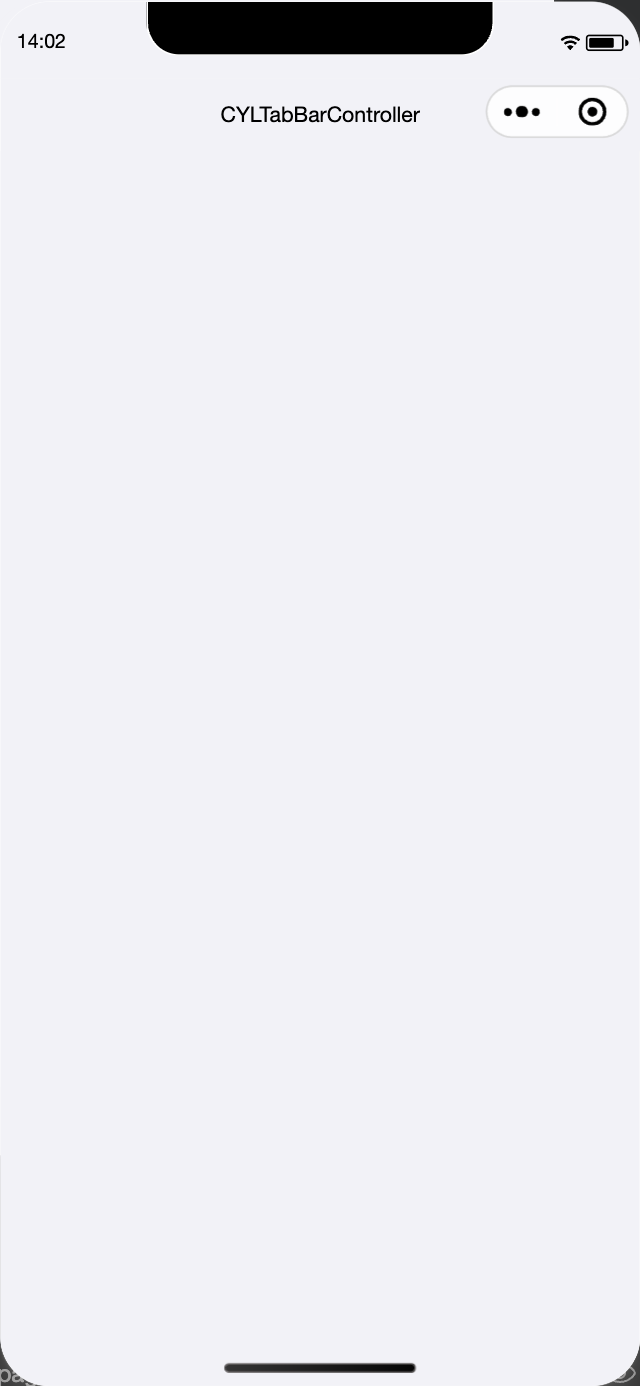
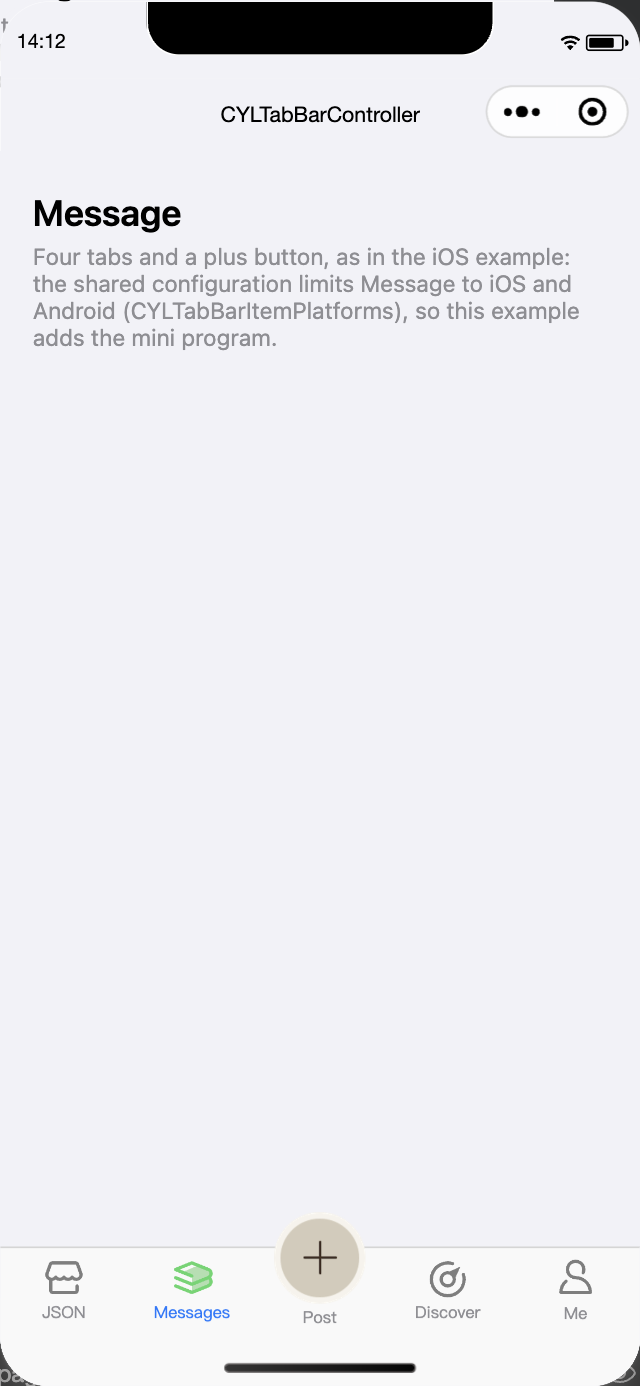
feat: ✨ one optional package per mini program animation library
cyl-tabbar-miniprogram depends on no animation library: cyl-tab-bar
and cyl-tab-bar-item take cyl-lottie-view, cyl-pag-view and
cyl-rive-view as abstract nodes (default: an empty placeholder). Four
packages: Lottie, PAG, Rive and the new cyl-gif-miniprogram (GIF plays
in <image>; it holds the icons), each listing its sample icons.

The example installs one (npm run setup -- --animation=pag, Lottie by
default) and copies only its icons. Measured code package: Lottie
0.45 MB, PAG 1.20 MB, Rive 0.85 MB, GIF 0.33 MB, against 2.25 MB.
Checked in WeChat DevTools (screenshots 21-24); npm test 15 / 15.

Most of the code was committed earlier as work in progress by the
vault sync and another session (b66d6f5, 5d26000, 7ed180b, 5e4e954).
TODO in docs/WeChat-Mini-Program.md: real device, Rive default skin.

By  @ChenYilong <luohanchenyilong@163.com>

diff --git a/docs/WeChat-Mini-Program.md b/docs/WeChat-Mini-Program.md
@@ -99,9 +99,9 @@
 
 | 中文 | English |
 |:---|:---|
-| 见右列。 | **Packages** (relative-path dependencies, no registry): `CrossPlatform/wechat-miniprogram-cyltabbar` is the package **`cyl-tabbar-miniprogram`** (`src/cyl-tab-bar`), which depends on **`cyl-lottie-miniprogram`** (`CrossPlatform/lottie-miniprogram`, the `cyl-lottie` component and the lottie library) through `"cyl-lottie-miniprogram": "file:../lottie-miniprogram"`, plus **`cyl-pag-miniprogram`** (`../pag-miniprogram`) and **`cyl-rive-miniprogram`** (`../rive-miniprogram`). A mini program code package leaves out `.pag` and `.riv` files, so the example's copies are named `*.pag.bin` and `icons.riv.bin`; it cannot read files under `miniprogram_npm` either, so the installer also copies Rive's WebAssembly (`cylMiniprogramAssets` in the package's `package.json`) to `miniprogram/cyl-rive-miniprogram/rive.wasm.br`, `cyl-rive`'s default `wasmPath`. Its example, `wechat-miniprogram-cyltabbar/example`, depends only on `"cyl-tabbar-miniprogram": "file:.."`. |
-| | **Run the example**: `cd CrossPlatform/wechat-miniprogram-cyltabbar/example && npm run setup` (Node only, no network: `scripts/cyl_install_components.js` copies every `file:` dependency and its own `file:` dependencies into `miniprogram/miniprogram_npm`, the layout of DevTools' "Build npm", so `cyl-lottie-miniprogram` comes in as the sub-dependency of `cyl-tabbar-miniprogram`; then `scripts/cyl_sync_shared.js` copies the shared configuration, localization tables, skin images and Lottie icons into `miniprogram/shared`). Import `example/` in WeChat DevTools (`project.config.json`, AppID `wx5e29c9d33906f074`) and compile. npm itself is not used because it links `file:` dependencies with symbolic links, which an exFAT drive cannot hold, and `--install-links` resolves nested relative paths from the wrong folder. On macOS, allow DevTools to access files on a removable volume when the repository is on an external drive. `npm run check` fails when `miniprogram_npm` or `shared` is out of date. |
-| | **Use the component**: `"tabBar": {"custom": true, "list": […]}` in `app.json`; in `custom-tab-bar/index.json`, `"cyl-tab-bar": "cyl-tabbar-miniprogram/cyl-tab-bar/index"`; in its WXML, `<cyl-tab-bar configuration="{{configuration}}" selected-identifier="{{selected}}" animation-base-path="/shared/lottie" bind:select="onSelect" />`, and `wx.switchTab` in `onSelect`. Every tab page has its own `custom-tab-bar` instance, so the example keeps badges, skin and overrides in `App`, each instance follows them, and the page that appears calls `cyl_playLottie()`. Full API: [cyl-tabbar-miniprogram API](#encyl-tabbar-miniprogram-api). |
+| 见右列。 | **Packages** (relative-path dependencies, no registry): `CrossPlatform/wechat-miniprogram-cyltabbar` is the package **`cyl-tabbar-miniprogram`** (`src/cyl-tab-bar`, `src/cyl-tab-bar-item`, `src/cyl-animation-placeholder`) and **depends on no animation library**. Animated tab icons come from four optional packages, one per library, so the 2 MB main code package holds only the runtime an app uses: **`cyl-lottie-miniprogram`** (`CrossPlatform/lottie-miniprogram`, `cyl-lottie`), **`cyl-pag-miniprogram`** (`../pag-miniprogram`, `cyl-pag`, full libpag), **`cyl-rive-miniprogram`** (`../rive-miniprogram`, `cyl-rive`) and **`cyl-gif-miniprogram`** (`../gif-miniprogram`: no component, GIF plays in `<image>`; it holds the GIF icons). `cyl-tab-bar` and `cyl-tab-bar-item` take the components through abstract nodes (`componentGenerics`: `cyl-lottie-view`, `cyl-pag-view`, `cyl-rive-view`, defaulting to `cyl-animation-placeholder`, an empty view that emits `error`); `cyl-tab-bar` forwards them to every item. Each animation package lists its sample icons in `cylExampleResources` of its `package.json` (folder, source folder in this repository, files) and its WebAssembly in `cylMiniprogramAssets`. A mini program code package leaves out `.pag` and `.riv` files, so the copies end in `.bin`; it cannot read files under `miniprogram_npm`, so the installer copies each WebAssembly to `miniprogram/<package>/` (`/cyl-rive-miniprogram/rive.wasm.br`, `/cyl-pag-miniprogram/libpag.wasm.br`) and leaves it out of `miniprogram_npm`. |
+| | **Run the example**: `cd CrossPlatform/wechat-miniprogram-cyltabbar/example && npm run setup` (Node only, no network) installs `cyl-tabbar-miniprogram` and **one** animation package, Lottie by default (`cylExampleAnimation` in its `package.json`); choose another with `npm run setup -- --animation=pag` (`lottie`, `pag`, `rive`, `gif`, remembered in `.cyl-animation`). `scripts/cyl_install_components.js` copies the packages into `miniprogram/miniprogram_npm` (the layout of DevTools' "Build npm"), removes the others, and points the animation tags of `custom-tab-bar/index.json` and `pages/lottie/index.json` at the chosen component (the placeholder for the rest); `scripts/cyl_sync_shared.js` copies the shared configuration, localization tables, skin images and the chosen package's icons into `miniprogram/shared` (the animation folders and `animations.js` are generated, not committed). The Me page lists the installed animation and Images. Measured code package (all files): Lottie 0.45 MB, PAG 1.20 MB, Rive 0.85 MB, GIF 0.33 MB (2.25 MB with Lottie, PAG and Rive together). Import `example/` in WeChat DevTools (`project.config.json`, AppID `wx5e29c9d33906f074`) and compile. npm itself is not used because it links `file:` dependencies with symbolic links, which an exFAT drive cannot hold. On macOS, allow DevTools to access files on a removable volume when the repository is on an external drive. `npm run check` fails when `miniprogram_npm`, the page files or `shared` are out of date. |
+| | **Use the component**: `"tabBar": {"custom": true, "list": […]}` in `app.json`; in `custom-tab-bar/index.json`, `"cyl-tab-bar": "cyl-tabbar-miniprogram/cyl-tab-bar/index"` plus the animation component you installed (e.g. `"cyl-lottie": "cyl-lottie-miniprogram/cyl-lottie/index"`); in its WXML, `<cyl-tab-bar generic:cyl-lottie-view="cyl-lottie" configuration="{{configuration}}" selected-identifier="{{selected}}" animation-base-path="/shared/lottie" bind:select="onSelect" />`, and `wx.switchTab` in `onSelect`. Every tab page has its own `custom-tab-bar` instance, so the example keeps badges, skin and overrides in `App`, each instance follows them, and the page that appears calls `cyl_playLottie()`. Full API: [cyl-tabbar-miniprogram API](#encyl-tabbar-miniprogram-api). |
 | | **Drive it in DevTools**: `source CrossPlatform/wechat-miniprogram-cyltabbar/example/scripts/cyl_devtools.sh` (outside a sandbox; DevTools' service port on, `wechatide` authorized for client "Claude"), then `cyl_refresh`, `cyl_state "{overrides:{cylDemoIcons:'rive'}}"`, `cyl_tap discover`, `cyl_shot <name>` (to `docs/assets`), `cyl_playback <tab>` (taps the tab and prints the selected icon's frames, or the Rive `active` input, every 100 ms). |
 | | **Tests**: `cd CrossPlatform/wechat-miniprogram-cyltabbar && npm test` (configuration reader and `cyl-tab-bar-item`, 15 / 15); `cd CrossPlatform/rive-miniprogram && npm install && npm run build && npm test` (Rive options, 3 / 3); `cd CrossPlatform/lottie-miniprogram && npm install && npm run build && npm test` (lottie library and `cyl-lottie` colors, 12 / 12). |
 
@@ -110,7 +110,7 @@
 
 | 中文 | English |
 |:---|:---|
-| 见右列。 | Score of the component API: every property, event and method of `cyl-tab-bar` (package `cyl-tabbar-miniprogram`) and of its sub-dependency `cyl-lottie` (package `cyl-lottie-miniprogram`), checked in the example in WeChat DevTools (screenshot number below, or a check made through the agent skill `wechatide`'s `automation_evaluate` and its result) or in the Node tests. Score = 100 × verified / total: **100 / 100** (42 of 42). |
+| 见右列。 | Score of the component API: every property, event and method of `cyl-tab-bar` (package `cyl-tabbar-miniprogram`) and of its sub-dependency `cyl-lottie` (package `cyl-lottie-miniprogram`), checked in the example in WeChat DevTools (screenshot number below, or a check made through the agent skill `wechatide`'s `automation_evaluate` and its result) or in the Node tests. Score = 100 × verified / total: **100 / 100** (43 of 43). |
 
 | API | 类型 / Kind | 验证 / Verified |
 |:---|:---|:---|
@@ -137,6 +137,7 @@
 | `cyl_swipe_behavior.js` | behavior | ✅ 07（`cyl_onSwipeStart` / `cyl_onSwipeEnd`） |
 | 无障碍 / accessibility | `aria-*` | ✅ evaluate：`tablist`；每个 Tab 为 `tab`，标签含角标 / each tab a `tab`, label with its badge（"Discover, 3"），`aria-selected`；PlusButton 为 / is a `button` |
 | 点击动画 / tap animation | `CYLTabBarControllerTabButtonTapAnimation` | ✅ evaluate：`bounce`，400 ms |
+| `cyl-lottie-view`、`cyl-pag-view`、`cyl-rive-view` | 抽象节点 / abstract nodes | ✅ evaluate：每个 Tab 的动画组件为所传组件 / each tab's animation component is the one passed（cyl-lottie / cyl-pag / cyl-rive，21–23）；未传时为 `cyl-animation-placeholder` / the placeholder when none is passed |
 | `cyl-lottie` `path` | 属性 / property | ✅ 包内文件 / package file（01、11），用户数据目录 / user data folder（13） |
 | `cyl-lottie` `animationData` | 属性 / property | ✅ 测试 / test |
 | `cyl-lottie` `loop` | 属性 / property | ✅ 11（`loopcomplete`） |
@@ -155,7 +156,7 @@
 | `cyl-lottie` `cyl_playSegments` | 方法 / method | ✅ 透传 / passes through to lottie-web `playSegments` |
 | `cyl-lottie` `cyl_setSpeed` | 方法 / method | ✅ 12 |
 | `cyl-lottie` `cyl_animation` | 方法 / method | ✅ evaluate（读取 / read `currentFrame`、`totalFrames`） |
-| 依赖 / dependency | `cyl-tabbar-miniprogram` → `cyl-lottie-miniprogram` | ✅ `cyl_install_components.js` 只依赖前者也会安装后者 / installs the second from the first alone |
+| 依赖 / dependency | 动画包可选 / animation packages optional | ✅ `cyl-tabbar-miniprogram` 不依赖动画库；示例只安装所选的一个 / depends on no animation library; the example installs the chosen one only（21–24） |
 
 ## [CN]cyl-tab-bar-item 与 CYLFlatDesignTabBarItem
 ## [EN]cyl-tab-bar-item and CYLFlatDesignTabBarItem
@@ -356,6 +357,34 @@
 
 </details>
 
+<details>
+<summary>21. 只安装 Lottie 包（默认），选中 Messages / Only the Lottie package installed (the default), Messages selected. WeChat Mini Program, WeChat DevTools simulator (iPhone, macOS 27.3), base library 3.17.6, branch feat/cross-platform-components after d52b146, 2026-11-13 14:0x (UTC+13)</summary>
+
+![Only the Lottie package installed (the default), Messages selected](assets/wechat-miniprogram-api-21-split-lottie.png)
+
+</details>
+
+<details>
+<summary>22. 只安装 PAG 包，选中 Messages / Only the PAG package installed, Messages selected. WeChat Mini Program, WeChat DevTools simulator (iPhone, macOS 27.3), base library 3.17.6, branch feat/cross-platform-components after d52b146, 2026-11-13 14:0x (UTC+13)</summary>
+
+![Only the PAG package installed, Messages selected](assets/wechat-miniprogram-api-22-split-pag.png)
+
+</details>
+
+<details>
+<summary>23. 只安装 Rive 包：Me 页面只列出 Rive 与 Images / Only the Rive package installed: the Me page lists Rive and Images only. WeChat Mini Program, WeChat DevTools simulator (iPhone, macOS 27.3), base library 3.17.6, branch feat/cross-platform-components after d52b146, 2026-11-13 14:0x (UTC+13)</summary>
+
+![Only the Rive package installed: the Me page lists Rive and Images only](assets/wechat-miniprogram-api-23-split-rive-me.png)
+
+</details>
+
+<details>
+<summary>24. 只安装 GIF 包：选中的 Messages 显示星星 GIF，Discover 作为普通图片循环播放火焰 GIF / Only the GIF package installed: the selected Messages shows the star GIF, Discover loops the fire GIF as a plain image. WeChat Mini Program, WeChat DevTools simulator (iPhone, macOS 27.3), base library 3.17.6, branch feat/cross-platform-components after d52b146, 2026-11-13 14:0x (UTC+13)</summary>
+
+![Only the GIF package installed: the selected Messages shows the star GIF, Discover loops the fire GIF as a plain image](assets/wechat-miniprogram-api-24-split-gif.png)
+
+</details>
+
 ## [CN]截图（63 / 100 时）
 ## [EN]Screenshots (at 63 / 100)
 
@@ -470,4 +499,4 @@
 | 见右列。 | DONE (2026-11-13, see the next entry). Original entry: TODO (bug, 2026-11-13): **PAG tab icons do not show** when Me → Tab icons → PAG is chosen. Checked commit [`81dd8d4`](https://github.com/ChenYilong/CYLTabBarController/commit/81dd8d4): it ships the player (`cyl-pag`, libpag-lite 0.0.6) and the example's PAG mode, but **no PAG file**: the repository does not distribute PAG files, `miniprogram/shared/pag/` is in `.gitignore`, and `scripts/cyl_sync_shared.js` copies `pag-android/2J.pag` only after `python3 scripts/fetch-animation-resources.py PAGResources` (a fresh clone shows the toast "Run the PAG download first"). With the file present (59 KB `2J.pag.bin`), WeChat DevTools' video decoder returns no frame (`getFrame 0`), so the icon stays blank. Remaining: (1) check on a real phone; (2) `2J.pag` is a full animation, not a tab icon, and the iOS tab icons (`tab-icons/*.pag`) are vector PAG files that libpag-lite cannot play: real PAG tab icons need the full `libpag-miniprogram` (WebAssembly, 4.6 MB unpacked, beyond the 2 MB main package: a subpackage or remote WASM); (3) decide whether the example ships a small PAG file of its own. |
 | 见右列。 | DONE (2026-11-13, Lottie playback evaluation, PAG check). User prompt, verbatim: "尤其是lottie，播放效果很差。 考虑 三个动画共用一个组件， lottie 之前是单独实现的， 并没和pag rive 一样使用 CYLTabBarController/CrossPlatform/RiveViewer-miniapp 。 评估lottie 也把代码改统一。 或者你评估哪一个效果好。或者两个实现都保留， 供用户自由选择。 或者两个方案融合。 以运行效果， 以及性能表现好，为准则。 在Me 中选择tab icons 为 PAG 时， 无法显示图标。 请标注为bug TODO 请排查commit 81dd8d4 PAG icons 是否正确提供" English: Lottie plays badly; evaluate one shared component for the three animations, keeping both implementations, or fusing them, judged by playback and performance; mark the PAG icons not showing as a bug TODO; check whether commit 81dd8d4 provides the PAG icons. Result: see "Lottie: one engine with PAG and Rive, or its own?" in the Animation approach evaluation (fused: three engines, one item component, one shared playback driver) and the PAG bug TODO above. |
 | 见右列。 | DONE (2026-11-13, PAG tab icons on full libpag): `cyl-pag` runs on the full **libpag-miniprogram 4.5.85** (August 2026; the newest 4.4.76, 6 days old, fails in `PAGInit` with "UnboundTypeError: Cannot call VectorString.push_back due to unbound types" in DevTools). The example shows the four vector tab icons of the iOS PAG example (home → `tab_home`, message → `tab_moments`, discover → `tab_health`, me → `tab_me`), screenshots 19 and 20. Measured with a playback probe in DevTools: tapping Message, the tapped bar is at 6 % after 151 ms, the new page's bar continues (24 % at 457 ms) to 100 % at 1.85 s (duration 1.83 s), then stops; Me: 36 % at 447 ms, 100 % at 1.24 s (duration 1.17 s). The installer no longer copies `cylMiniprogramAssets` into `miniprogram_npm` (a second copy of each WebAssembly, unreadable there): the example's files went from 3.36 MB to 2.25 MB. Open: a real device check; the main package is still above 2 MB, see the package split task below. Tests: `npm test` 15 / 15. Original entry: TODO (2026-11-13, PAG tab icons on full libpag). User prompt, verbatim: "continue 阅读docs里小程序相关文档，以及最新小程序相关提交继续TODO任务。" English: read the mini program docs and the latest mini program commits, and continue the TODO tasks. Context: the code layout and playback task is DONE (`b439873`, `5cf9723`, `7f2a184`); the open TODO is the PAG bug above. Plan: `cyl-pag` moves from libpag-lite (BMP sequences only) to the full `libpag-miniprogram` 4.4.76 (Apache-2.0, WebAssembly + WebGL: 337 KB of JavaScript plus a 590 KB Brotli WASM, not 4.6 MB, which counted the source map and the raw WASM), so the vector iOS tab icons (`tab-icons/tab_home.pag`, `tab_moments.pag`, `tab_health.pag`, `tab_me.pag`) play; the WASM is copied to `miniprogram/cyl-pag-miniprogram/` like Rive's; check in WeChat DevTools with `cyl_playback` and a screenshot. |
-| 见右列。 | TODO (2026-11-13, one package per animation library). User prompt, verbatim: "包大小限制问题可以通过将不同的代码拆分为子组件的方式，比如动效可以拆分为四个包gif lottie pag live分别一个包，供用户在集成式自由选择，我们的example也可以用这种方式保留一种动效，同时比如资源文件也应该打到对应的子组件中。进一步缩小包体积。" English: solve the package size limit by splitting the code into sub-components: one package per animation (GIF, Lottie, PAG, Rive), which integrators choose freely; the example keeps one animation the same way; resource files also go into the matching sub-component, to shrink the package further. Context: after the PAG fix the example is 2.25 MB, above the 2 MB main package (Lottie 0.21 MB, PAG 0.93 MB, Rive 0.67 MB of it). Plan: (1) `cyl-tabbar-miniprogram` no longer depends on the animation packages: `cyl-tab-bar-item` gets abstract nodes (`componentGenerics`: `cyl-lottie-view`, `cyl-pag-view`, `cyl-rive-view`, `cyl-gif-view`, each defaulting to an empty view) which `cyl-tab-bar` forwards, and the app names the component it installed (`generic:cyl-lottie-view="cyl-lottie"`); (2) a fourth package `cyl-gif-miniprogram` for GIF icons; (3) each package carries its sample icons; (4) the example installs one animation package, chosen at setup (`npm run setup -- --animation=lottie`, default Lottie), and the Me page lists only the installed one; (5) measure the package per choice, check each in DevTools with a screenshot. |
+| 见右列。 | DONE (2026-11-13, one package per animation library): `cyl-tabbar-miniprogram` depends on no animation library; `cyl-tab-bar-item` and `cyl-tab-bar` take `cyl-lottie-view`, `cyl-pag-view` and `cyl-rive-view` as abstract nodes (default `cyl-animation-placeholder`), checked in DevTools: each tab's animation component is the one passed. Four packages: `cyl-lottie-miniprogram`, `cyl-pag-miniprogram`, `cyl-rive-miniprogram` and the new `cyl-gif-miniprogram` (no component: GIF plays in `<image>`; it holds the GIF icons); each lists its icons in `cylExampleResources`. The example installs one, Lottie by default (`npm run setup -- --animation=pag`), copies only its icons, and its Me page lists only it and Images. Measured code package: Lottie 0.45 MB, PAG 1.20 MB, Rive 0.85 MB, GIF 0.33 MB, against 2.25 MB with all three runtimes; screenshots 21–24; `npm test` 15 / 15, `npm run check` passes. Open: the first compile after switching packages logged "Component is not found in path wx://not-found" once in DevTools (gone after a second compile); with Rive installed by default the light skin makes its white icons faint (the Me page picks the dark skin only when Rive is chosen there); a real device check. Original entry: TODO (2026-11-13, one package per animation library). User prompt, verbatim: "包大小限制问题可以通过将不同的代码拆分为子组件的方式，比如动效可以拆分为四个包gif lottie pag live分别一个包，供用户在集成式自由选择，我们的example也可以用这种方式保留一种动效，同时比如资源文件也应该打到对应的子组件中。进一步缩小包体积。" English: solve the package size limit by splitting the code into sub-components: one package per animation (GIF, Lottie, PAG, Rive), which integrators choose freely; the example keeps one animation the same way; resource files also go into the matching sub-component, to shrink the package further. Context: after the PAG fix the example is 2.25 MB, above the 2 MB main package (Lottie 0.21 MB, PAG 0.93 MB, Rive 0.67 MB of it). Plan: (1) `cyl-tabbar-miniprogram` no longer depends on the animation packages: `cyl-tab-bar-item` gets abstract nodes (`componentGenerics`: `cyl-lottie-view`, `cyl-pag-view`, `cyl-rive-view`, `cyl-gif-view`, each defaulting to an empty view) which `cyl-tab-bar` forwards, and the app names the component it installed (`generic:cyl-lottie-view="cyl-lottie"`); (2) a fourth package `cyl-gif-miniprogram` for GIF icons; (3) each package carries its sample icons; (4) the example installs one animation package, chosen at setup (`npm run setup -- --animation=lottie`, default Lottie), and the Me page lists only the installed one; (5) measure the package per choice, check each in DevTools with a screenshot. |

diff --git a/CrossPlatform/wechat-miniprogram-cyltabbar/README.md b/CrossPlatform/wechat-miniprogram-cyltabbar/README.md
@@ -1,15 +1,17 @@
 # cyl-tabbar-miniprogram
 
 CYLTabBarController for WeChat Mini Program: `cyl-tab-bar`, a custom tab bar component configured with the same keys as
-the iOS and Android libraries ([docs/Configuration-File.md](../../docs/Configuration-File.md)), with Lottie tab icons
-through its sub-dependency [`cyl-lottie-miniprogram`](../lottie-miniprogram). Full documentation, the scores (keys, API,
+the iOS and Android libraries ([docs/Configuration-File.md](../../docs/Configuration-File.md)). It depends on no
+animation library: animated tab icons come from four optional packages, one per library, so an app ships only the
+runtime it uses (the main code package is limited to 2 MB). Full documentation, the scores (keys, API,
 lottie-miniprogram issues) and the screenshots: [docs/WeChat-Mini-Program.md](../../docs/WeChat-Mini-Program.md).
 
 ## Run the example
 
-1. `cd example && npm run setup` (Node 18+, no network): installs `cyl-tabbar-miniprogram` and its sub-dependency
-   `cyl-lottie-miniprogram` into `example/miniprogram/miniprogram_npm`, and copies the shared configuration,
-   localization tables, skin images and Lottie icons into `example/miniprogram/shared`.
+1. `cd example && npm run setup` (Node 18+, no network): installs `cyl-tabbar-miniprogram` and **one** animation package
+   into `example/miniprogram/miniprogram_npm`, and copies the shared configuration, localization tables, skin images and
+   that package's icons into `example/miniprogram/shared`. Lottie by default; choose another with
+   `npm run setup -- --animation=pag` (`lottie`, `pag`, `rive`, `gif`; remembered in `.cyl-animation`).
 2. Import `example/` in [WeChat DevTools](https://developers.weixin.qq.com/miniprogram/dev/devtools/download.html)
    (AppID `wx5e29c9d33906f074`; use your own AppID for your app) and compile.
 
@@ -24,18 +26,35 @@ reader: `npm test` here.
 ```
 
 Copy `example/scripts/cyl_install_components.js` into your project (or use DevTools' "Build npm" on a file system with
-symbolic links): it installs the package and `cyl-lottie-miniprogram`, its own relative-path dependency.
+symbolic links) to install the relative-path dependencies.
+
+**Animated tab icons: add the packages you need** and name their components through the abstract nodes of `cyl-tab-bar`
+(`cyl-lottie-view`, `cyl-pag-view`, `cyl-rive-view`). A node you leave out shows an empty placeholder
+(`cyl-animation-placeholder`), which emits `error`.
+
+| Package | Folder | Component | Code package cost (example, measured) |
+|:---|:---|:---|:---|
+| `cyl-lottie-miniprogram` | `../lottie-miniprogram` | `cyl-lottie` | 0.45 MB in all |
+| `cyl-pag-miniprogram` | `../pag-miniprogram` | `cyl-pag` (copy `libpag.wasm.br` to `/cyl-pag-miniprogram/`) | 1.20 MB in all |
+| `cyl-rive-miniprogram` | `../rive-miniprogram` | `cyl-rive` (copy `rive.wasm.br` to `/cyl-rive-miniprogram/`) | 0.85 MB in all |
+| `cyl-gif-miniprogram` | `../gif-miniprogram` | none: GIF plays in `<image>`, the package holds the icons | 0.33 MB in all |
+
+Each package lists its sample icons in `cylExampleResources` of its `package.json`; the example copies only those of the
+package it installed.
 
 ```json
 // app.json
 { "tabBar": { "custom": true, "list": [{ "pagePath": "pages/home/index", "text": "Home" }] } }
 // custom-tab-bar/index.json
-{ "component": true, "usingComponents": { "cyl-tab-bar": "cyl-tabbar-miniprogram/cyl-tab-bar/index" } }
+{ "component": true, "usingComponents": {
+  "cyl-tab-bar": "cyl-tabbar-miniprogram/cyl-tab-bar/index",
+  "cyl-lottie": "cyl-lottie-miniprogram/cyl-lottie/index"
+} }
 ```
 
 ```xml
 <!-- custom-tab-bar/index.wxml -->
-<cyl-tab-bar configuration="{{configuration}}" selected-identifier="{{selected}}" animation-base-path="/assets/lottie" bind:select="onSelect" />
+<cyl-tab-bar generic:cyl-lottie-view="cyl-lottie" configuration="{{configuration}}" selected-identifier="{{selected}}" animation-base-path="/assets/lottie" bind:select="onSelect" />
 ```
 
 Properties: `configuration`, `strings`, `symbolsByTheme`, `imageBasePath`, `animationBasePath`, `selectedIdentifier`,
@@ -49,8 +68,10 @@ Properties: `configuration`, `strings`, `symbolsByTheme`, `imageBasePath`, `anim
 | Path | What |
 |:---|:---|
 | `src/cyl-tab-bar/` | The component; `cyl_configuration.js` reads the configuration (no wx API, tested in Node) |
+| `src/cyl-tab-bar-item/` | The icon and title of a tab (`CYLFlatDesignTabBarItem`); its abstract nodes take the animation components |
+| `src/cyl-animation-placeholder/` | The default of the abstract nodes: an empty view for a library that is not installed |
 | `test/` | Node tests of the configuration reader |
 | `example/` | The example mini program: `project.config.json`, `miniprogram/` (pages, custom tab bar, generated `shared/`), `scripts/` |
-| `../lottie-miniprogram/` | `cyl-lottie-miniprogram`: the `cyl-lottie` component and the lottie library |
+| `../lottie-miniprogram/`, `../pag-miniprogram/`, `../rive-miniprogram/`, `../gif-miniprogram/` | The optional animation packages |
 
 No code was copied from the projects listed as references in the documentation: see [NOTICE](NOTICE).

diff --git a/docs/Tab-Icon-Animation-Quick-Start.md b/docs/Tab-Icon-Animation-Quick-Start.md
@@ -192,7 +192,7 @@ NSDictionary *home = @{
 | Android 版（[Android-Library.md](Android-Library.md)）读取同一份配置：GIF 由系统解码，总可播放；Lottie、PAG、Rive 在 App 引入 lottie-android、libpag、rive-android 时自动启用，没有时显示图片。 | The Android version ([Android-Library.md](Android-Library.md)) reads the same configuration: GIF is decoded by the platform and always plays; Lottie, PAG and Rive turn on when the app has lottie-android, libpag or rive-android, and show the image otherwise. |
 | Android 上可以运行与 iOS 示例对应的 `example-pag`、`example-gif`、`example-rive`（[Android-Examples.md](Android-Examples.md)），它们读取同样的动画文件。 | On Android, run `example-pag`, `example-gif` and `example-rive`, the twins of the iOS examples ([Android-Examples.md](Android-Examples.md)); they read the same animation files. |
 | React Native 与 Flutter 中，TabBar 配置写同样的 key；页面中的动画用 `CYLAnimationView` 播放，它使用同一个动画引擎。见 [React Native 与 Flutter 组件](Cross-Platform-Components.md#cn动效图标示例)。 | In React Native and Flutter, the tab bar configuration takes the same keys; animations in a page play through `CYLAnimationView`, on the same animation engine. See [React Native and Flutter components](Cross-Platform-Components.md#enanimated-icon-demos). |
-| 微信小程序中，TabBar 配置也写同样的 key（`CYLTabBarLottie…`、`CYLTabBarPAG…`、`CYLTabBarRive…`、`CYLTabBarAnimationOptions`）。小程序代码包不包含 `.pag`、`.riv` 文件，副本要命名为 `*.pag.bin`、`*.riv.bin`；小程序读不到 `miniprogram_npm` 下的文件，Rive 与 PAG 的 WebAssembly 要复制到代码包根目录（`/cyl-rive-miniprogram/rive.wasm.br`、`/cyl-pag-miniprogram/libpag.wasm.br`）；PAG 使用完整 libpag（4.5.85），可以播放矢量 Tab 图标，真机效果尚待验证。见 [微信小程序](WeChat-Mini-Program.md)。 | In the WeChat Mini Program, the tab bar configuration takes the same keys (`CYLTabBarLottie…`, `CYLTabBarPAG…`, `CYLTabBarRive…`, `CYLTabBarAnimationOptions`). A code package leaves out `.pag` and `.riv` files, so name the copies `*.pag.bin` and `*.riv.bin`; a mini program cannot read files under `miniprogram_npm`, so the WebAssembly of Rive and PAG goes to the package root (`/cyl-rive-miniprogram/rive.wasm.br`, `/cyl-pag-miniprogram/libpag.wasm.br`); PAG uses the full libpag (4.5.85), which plays vector tab icons, and a real-device check is still TODO. See [WeChat Mini Program](WeChat-Mini-Program.md). |
+| 微信小程序中，TabBar 配置也写同样的 key（`CYLTabBarLottie…`、`CYLTabBarPAG…`、`CYLTabBarRive…`、`CYLTabBarAnimationOptions`）。小程序代码包不包含 `.pag`、`.riv` 文件，副本要命名为 `*.pag.bin`、`*.riv.bin`；小程序读不到 `miniprogram_npm` 下的文件，Rive 与 PAG 的 WebAssembly 要复制到代码包根目录（`/cyl-rive-miniprogram/rive.wasm.br`、`/cyl-pag-miniprogram/libpag.wasm.br`）；PAG 使用完整 libpag（4.5.85），可以播放矢量 Tab 图标，真机效果尚待验证。每种动画是一个独立的可选包（`cyl-lottie-miniprogram`、`cyl-pag-miniprogram`、`cyl-rive-miniprogram`、`cyl-gif-miniprogram`），通过 `cyl-tab-bar` 的抽象节点（如 `generic:cyl-lottie-view="cyl-lottie"`）接入，只安装需要的包以控制 2 MB 主包。见 [微信小程序](WeChat-Mini-Program.md)。 | In the WeChat Mini Program, the tab bar configuration takes the same keys (`CYLTabBarLottie…`, `CYLTabBarPAG…`, `CYLTabBarRive…`, `CYLTabBarAnimationOptions`). A code package leaves out `.pag` and `.riv` files, so name the copies `*.pag.bin` and `*.riv.bin`; a mini program cannot read files under `miniprogram_npm`, so the WebAssembly of Rive and PAG goes to the package root (`/cyl-rive-miniprogram/rive.wasm.br`, `/cyl-pag-miniprogram/libpag.wasm.br`); PAG uses the full libpag (4.5.85), which plays vector tab icons, and a real-device check is still TODO. Each animation is a separate optional package (`cyl-lottie-miniprogram`, `cyl-pag-miniprogram`, `cyl-rive-miniprogram`, `cyl-gif-miniprogram`), plugged in through the abstract nodes of `cyl-tab-bar` (e.g. `generic:cyl-lottie-view="cyl-lottie"`); install only the ones you need to stay under the 2 MB main package. See [WeChat Mini Program](WeChat-Mini-Program.md). |
 
 ## [CN]注意事项
 ## [EN]Things to watch for

diff --git a/.agents/skills/cyl-tab-animation/SKILL.md b/.agents/skills/cyl-tab-animation/SKILL.md
@@ -28,7 +28,7 @@ Steps for app developers: [Tab-Icon-Animation-Quick-Start](../../../docs/Tab-Ico
 - On a simulator several asynchronous `PAGView`s stall inside software OpenGL while holding their locks, which blocks the main thread: blank icons, no playback. The animator sets `-setSync:YES` on every target, so a simulator and a device run the same path. To debug playback, trace `-play` and `onAnimationUpdate:` rather than judging from screenshots.
 - A configuration file (`-initWithConfiguration:`, [Configuration-File](../../../docs/Configuration-File.md)) takes the same keys as strings: the generic `CYLTabBarAnimation…` keys, PAG's, Rive's and GIF's keys (by name, whether or not the subspec is installed), `CYLTabBarAnimationOptions` (a dictionary written into the animation URL's fragment, e.g. `{"artboard": "HOME", "input": "active"}`), `CYLTabBarLottieLoopsWhenUnselected`, and the top-level `CYLTabBarControllerTabBarItemAnimationSpeed`.
 - React Native and Flutter: the tab bar configuration takes the same keys; `CYLAnimationView` plays a file in a page through `CYLTabBarItemAnimationFactory` (options sorted into the URL fragment). Demos: `CrossPlatform/react-native-cyltabbar/example-pag` / `example-rive`, `CrossPlatform/flutter_cyltabbar/example_pag` / `example_rive`; see [Cross-Platform-Components](../../../docs/Cross-Platform-Components.md#enanimated-icon-demos). On Android the library calls `Rive.init` once (reflection) before the first Rive view; apps do not.
-- WeChat Mini Program: the same keys through `cyl-tab-bar-item`, which picks `cyl-lottie`, `cyl-pag` (full libpag-miniprogram 4.5.85, WebAssembly + WebGL, vector PAG files; 4.4.76 fails in DevTools) or `cyl-rive` (`@rive-app/canvas-advanced` + WXWebAssembly) by file type. Package copies are `*.pag.bin` / `*.riv.bin`; the WebAssembly files are copied out of `miniprogram_npm` to `/cyl-rive-miniprogram/rive.wasm.br` and `/cyl-pag-miniprogram/libpag.wasm.br`. Demo: `CrossPlatform/wechat-miniprogram-cyltabbar/example` (Me page, "Tab icons"); see [WeChat-Mini-Program](../../../docs/WeChat-Mini-Program.md).
+- WeChat Mini Program: the same keys through `cyl-tab-bar-item`, which picks `cyl-lottie`, `cyl-pag` (full libpag-miniprogram 4.5.85, WebAssembly + WebGL, vector PAG files; 4.4.76 fails in DevTools) or `cyl-rive` (`@rive-app/canvas-advanced` + WXWebAssembly) by file type. Package copies are `*.pag.bin` / `*.riv.bin`; the WebAssembly files are copied out of `miniprogram_npm` to `/cyl-rive-miniprogram/rive.wasm.br` and `/cyl-pag-miniprogram/libpag.wasm.br`. Each library is an optional package (`cyl-lottie-miniprogram`, `cyl-pag-miniprogram`, `cyl-rive-miniprogram`, `cyl-gif-miniprogram`); `cyl-tabbar-miniprogram` depends on none and takes their components through abstract nodes (`generic:cyl-lottie-view="cyl-lottie"`, `cyl-pag-view`, `cyl-rive-view`). Demo: `CrossPlatform/wechat-miniprogram-cyltabbar/example`, one package per setup (`npm run setup -- --animation=lottie|pag|rive|gif`); see [WeChat-Mini-Program](../../../docs/WeChat-Mini-Program.md).
 - `tabBarItemAnimationSpeed` sets the speed. PAG files are downloaded by `scripts/fetch-animation-resources.py` at `pod install`, not kept in the repository.
 
 ## Keeping this current

diff --git a/docs/README.md b/docs/README.md
@@ -375,7 +375,8 @@ docs/
 │   ├── wechat-miniprogram-api-20-pag-me.png
 │   ├── wechat-miniprogram-api-21-split-lottie.png
 │   ├── wechat-miniprogram-api-22-split-pag.png
-│   ├── wechat-miniprogram-api-23-split-rive.png
+│   ├── wechat-miniprogram-api-23-split-rive-me.png
+│   ├── wechat-miniprogram-api-24-split-gif.png
 │   ├── wechat-miniprogram-badges.png
 │   ├── wechat-miniprogram-christmas-glass.png
 │   ├── wechat-miniprogram-flat-login.png
